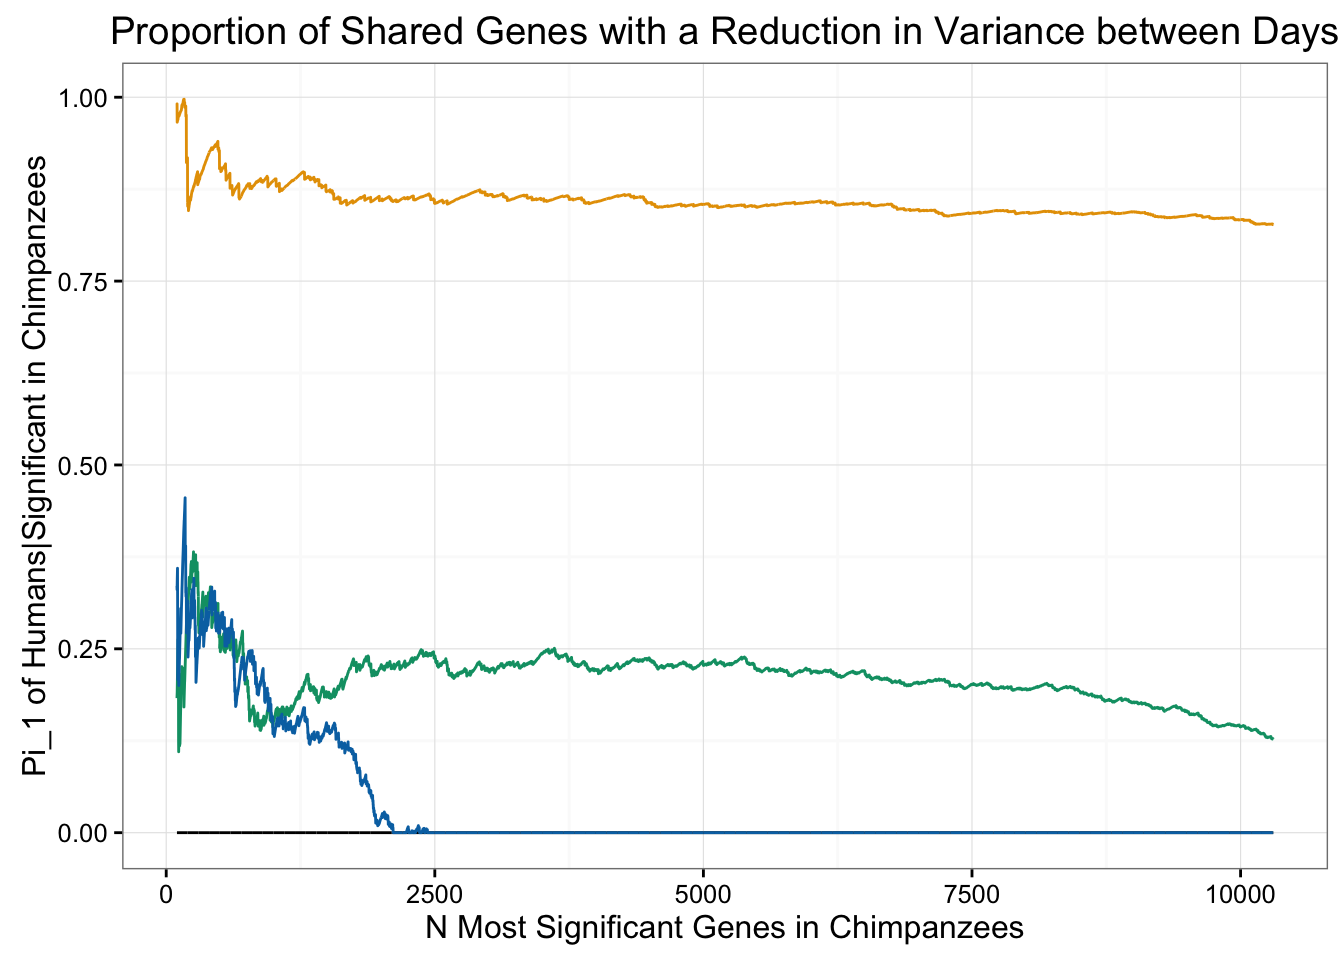
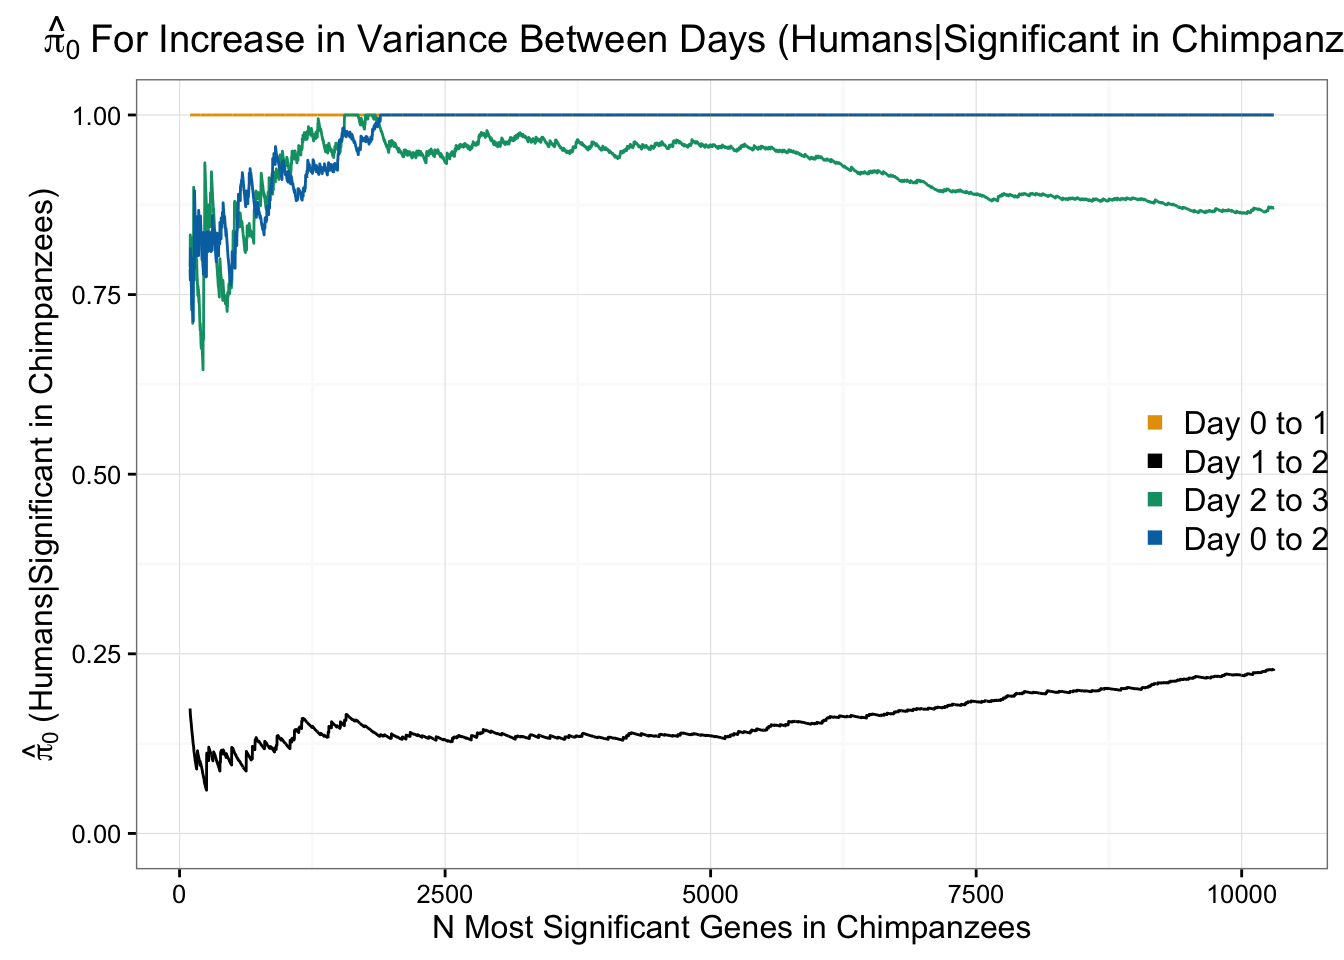
Analysis of variance plots update pi0

diff --git a/analysis/Temporal_changes_variation.html b/analysis/Temporal_changes_variation.html
@@ -2088,34 +2088,54 @@ qqplot_inc_top_all_day12 &lt;- as.data.frame(qqplot_inc_top_all_day12)
 qqplot_inc_top_all_day23 &lt;- as.data.frame(qqplot_inc_top_all_day23)
 qqplot_inc_top_all_day02 &lt;- as.data.frame(qqplot_inc_top_all_day02)
 
+# Plots of pi_0
 
+qqplot_red_top_all_day01_pi0 &lt;- abs(1- qqplot_red_top_all_day01)
+qqplot_red_top_all_day12_pi0 &lt;- abs(1- qqplot_red_top_all_day12)
+qqplot_red_top_all_day23_pi0 &lt;- abs(1- qqplot_red_top_all_day23)
+qqplot_red_top_all_day02_pi0 &lt;- abs(1- qqplot_red_top_all_day02)
+qqplot_inc_top_all_day01_pi0 &lt;- abs(1- qqplot_inc_top_all_day01)
+qqplot_inc_top_all_day12_pi0 &lt;- abs(1- qqplot_inc_top_all_day12)
+qqplot_inc_top_all_day23_pi0 &lt;- abs(1- qqplot_inc_top_all_day23)
+qqplot_inc_top_all_day02_pi0 &lt;- abs(1- qqplot_inc_top_all_day02)
 
-# Plots of pi_1
-dev.off()</code></pre>
-<pre><code>null device 
-          1 </code></pre>
-<pre class="r"><code># Plot reduction in variation
-ggplot(qqplot_red_top_all_day01, aes(x = qqplot_red_top_all_day01[,1], y = qqplot_red_top_all_day01[,2])) + geom_line(colour=&quot;#E69F00&quot;) + theme_bw() + geom_line(aes(x = qqplot_red_top_all_day12[,1], y = qqplot_red_top_all_day12[,2]), colour = &quot;#000000&quot;) + geom_line(aes(x = qqplot_red_top_all_day23[,1], y = qqplot_red_top_all_day23[,2]), colour =  &quot;#009E73&quot;) + geom_line(aes(x = qqplot_red_top_all_day02[,1], y = qqplot_red_top_all_day02[,2]), colour =  &quot;#0072B2&quot;) + ylim(0,1) + ggtitle(&quot;Proportion of Shared Genes with a Reduction in Variance between Days&quot;) + xlab(&quot;N Most Significant Genes in Humans&quot;) + ylab(&quot;Pi_1 of Chimpanzees|Significant in Humans&quot;) 
+# Plot reduction in variation
+ggplot(qqplot_red_top_all_day01_pi0, aes(x = qqplot_red_top_all_day01_pi0[,1], y = qqplot_red_top_all_day01_pi0[,2])) + geom_line(colour=&quot;#E69F00&quot;) + theme_bw() + geom_line(aes(x = qqplot_red_top_all_day12_pi0[,1], y = qqplot_red_top_all_day12_pi0[,2]), colour = &quot;#000000&quot;) + geom_line(aes(x = qqplot_red_top_all_day23_pi0[,1], y = qqplot_red_top_all_day23_pi0[,2]), colour =  &quot;#009E73&quot;) + geom_line(aes(x = qqplot_red_top_all_day02_pi0[,1], y = qqplot_red_top_all_day02_pi0[,2]), colour =  &quot;#0072B2&quot;) + ylim(0,1) + ggtitle(expression( italic(hat(pi)[0]) ~ &quot;For Reduction in Variance Between Days (Chimpanzees|Significant in Humans)&quot; )) + xlab(&quot;N Most Significant Genes in Humans&quot;) + ylab(expression( italic(hat(pi)[0]) ~ &quot;(Chimpanzees|Significant in Humans)&quot;)) 
 
-par(fig = c(0, 1, 0, 1), oma = c(0, 0, 0, 0), mar = c(0, 0, 0, 0), new = TRUE)</code></pre>
-<pre><code>Warning in par(fig = c(0, 1, 0, 1), oma = c(0, 0, 0, 0), mar = c(0, 0, 0, :
-calling par(new=TRUE) with no plot</code></pre>
-<pre class="r"><code>plot(0, 0, type = &quot;n&quot;, bty = &quot;n&quot;, xaxt = &quot;n&quot;, yaxt = &quot;n&quot;)
-legend(&quot;right&quot;, c(&quot;Day 0 to 1&quot;, &quot;Day 1 to 2&quot;, &quot;Day 2 to 3&quot;, &quot;Day 0 to 2&quot;), xpd = TRUE, horiz = FALSE, inset = c(0, 
-    0), bty = &quot;n&quot;, pch = c(15, 15, 15, 15), col = c(&quot;#E69F00&quot;, &quot;#000000&quot;,  &quot;#009E73&quot;,&quot;#0072B2&quot; ), cex = 1)
+par(fig = c(0, 1, 0, 1), oma = c(0, 0, 0, 0), mar = c(0, 0, 0, 0), new = TRUE)
+plot(0, 0, type = &quot;n&quot;, bty = &quot;n&quot;, xaxt = &quot;n&quot;, yaxt = &quot;n&quot;)
+legend(&quot;right&quot;, c(&quot;Day 0 to 1&quot;, &quot;Day 1 to 2&quot;, &quot;Day 2 to 3&quot;, &quot;Day 0 to 2&quot;), xpd = TRUE, horiz = FALSE, inset = c(0, 0), bty = &quot;n&quot;, pch = c(15, 15, 15, 15), col = c(&quot;#E69F00&quot;, &quot;#000000&quot;,  &quot;#009E73&quot;,&quot;#0072B2&quot; ), cex = 1)</code></pre>
+<p><img src="figure/Temporal_changes_variation.Rmd/unnamed-chunk-10-17.png" width="672" style="display: block; margin: auto;" /></p>
+<pre class="r"><code># Plot of Increase in Variation
 
-ggplot(qqplot_red_top_all_day01, aes(x = qqplot_red_top_all_day01[,1], y = qqplot_red_top_all_day01[,2])) + geom_line(colour=&quot;#E69F00&quot;) + theme_bw() + geom_line(aes(x = qqplot_red_top_all_day12[,1], y = qqplot_red_top_all_day12[,2]), colour = &quot;#000000&quot;) + geom_line(aes(x = qqplot_red_top_all_day23[,1], y = qqplot_red_top_all_day23[,2]), colour =  &quot;#009E73&quot;) + geom_line(aes(x = qqplot_red_top_all_day02[,1], y = qqplot_red_top_all_day02[,2]), colour =  &quot;#0072B2&quot;) + ylim(0,1) + ggtitle(&quot;Proportion of Shared Genes with a Reduction in Variance between Days&quot;) + xlab(&quot;N Most Significant Genes in Humans&quot;) + ylab(&quot;Pi_1 of Chimpanzees|Significant in Humans&quot;) 
+ggplot(qqplot_inc_top_all_day01_pi0, aes(x = qqplot_inc_top_all_day01_pi0[,1], y = qqplot_inc_top_all_day01_pi0[,2])) + geom_line(colour=&quot;#E69F00&quot;) + theme_bw() + geom_line(aes(x = qqplot_inc_top_all_day12_pi0[,1], y = qqplot_inc_top_all_day12_pi0[,2]), colour = &quot;#000000&quot;) + geom_line(aes(x = qqplot_inc_top_all_day23_pi0[,1], y = qqplot_inc_top_all_day23_pi0[,2]), colour =  &quot;#009E73&quot;) + geom_line(aes(x = qqplot_inc_top_all_day02_pi0[,1], y = qqplot_inc_top_all_day02_pi0[,2]), colour =  &quot;#0072B2&quot;) + ylim(0,1) + ggtitle(expression( italic(hat(pi)[0]) ~ &quot;For Increase in Variance Between Days (Chimpanzees|Significant in Humans)&quot; )) + xlab(&quot;N Most Significant Genes in Humans&quot;) + ylab(expression( italic(hat(pi)[0]) ~ &quot;(Chimpanzees|Significant in Humans)&quot;)) 
 
+par(fig = c(0, 1, 0, 1), oma = c(0, 0, 0, 0), mar = c(0, 0, 0, 0), new = TRUE)
+plot(0, 0, type = &quot;n&quot;, bty = &quot;n&quot;, xaxt = &quot;n&quot;, yaxt = &quot;n&quot;)
+legend(&quot;right&quot;, c(&quot;Day 0 to 1&quot;, &quot;Day 1 to 2&quot;, &quot;Day 2 to 3&quot;, &quot;Day 0 to 2&quot;), xpd = TRUE, horiz = FALSE, inset = c(0, 0), bty = &quot;n&quot;, pch = c(15, 15, 15, 15), col = c(&quot;#E69F00&quot;, &quot;#000000&quot;,  &quot;#009E73&quot;,&quot;#0072B2&quot; ), cex = 1)</code></pre>
+<p><img src="figure/Temporal_changes_variation.Rmd/unnamed-chunk-10-18.png" width="672" style="display: block; margin: auto;" /></p>
+<pre class="r"><code># Plots of pi_1
 
-# Plot inc in variation
-ggplot(qqplot_inc_top_all_day01, aes(x = qqplot_inc_top_all_day01[,1], y = qqplot_inc_top_all_day01[,2])) + geom_line(colour=&quot;#E69F00&quot;) + theme_bw() + geom_line(aes(x = qqplot_inc_top_all_day12[,1], y = qqplot_inc_top_all_day12[,2]), colour = &quot;#000000&quot;) + geom_line(aes(x = qqplot_inc_top_all_day23[,1], y = qqplot_inc_top_all_day23[,2]), colour =  &quot;#009E73&quot;) + geom_line(aes(x = qqplot_inc_top_all_day02[,1], y = qqplot_inc_top_all_day02[,2]), colour =  &quot;#0072B2&quot;) + ylim(0,1) + ggtitle(&quot;Proportion of Shared Genes with an Increase in Variance between Days&quot;) + xlab(&quot;N Most Significant Genes in Humans&quot;) + ylab(&quot;Pi_1 of Chimpanzees|Significant in Humans&quot;) 
+#dev.off()
+# Plot reduction in variation
+ggplot(qqplot_red_top_all_day01, aes(x = qqplot_red_top_all_day01[,1], y = qqplot_red_top_all_day01[,2])) + geom_line(colour=&quot;#E69F00&quot;) + theme_bw() + geom_line(aes(x = qqplot_red_top_all_day12[,1], y = qqplot_red_top_all_day12[,2]), colour = &quot;#000000&quot;) + geom_line(aes(x = qqplot_red_top_all_day23[,1], y = qqplot_red_top_all_day23[,2]), colour =  &quot;#009E73&quot;) + geom_line(aes(x = qqplot_red_top_all_day02[,1], y = qqplot_red_top_all_day02[,2]), colour =  &quot;#0072B2&quot;) + ylim(0,1) + ggtitle(&quot;Proportion of Shared Genes with a Reduction in Variance between Days&quot;) + xlab(&quot;N Most Significant Genes in Humans&quot;) + ylab(expression( italic(hat(pi)[1]) ~ &quot;(Chimpanzees|Significant in Humans)&quot;)) 
 
 par(fig = c(0, 1, 0, 1), oma = c(0, 0, 0, 0), mar = c(0, 0, 0, 0), new = TRUE)
 plot(0, 0, type = &quot;n&quot;, bty = &quot;n&quot;, xaxt = &quot;n&quot;, yaxt = &quot;n&quot;)
 legend(&quot;right&quot;, c(&quot;Day 0 to 1&quot;, &quot;Day 1 to 2&quot;, &quot;Day 2 to 3&quot;, &quot;Day 0 to 2&quot;), xpd = TRUE, horiz = FALSE, inset = c(0, 
-    0), bty = &quot;n&quot;, pch = c(15, 15, 15, 15), col = c(&quot;#E69F00&quot;, &quot;#000000&quot;,  &quot;#009E73&quot;,&quot;#0072B2&quot; ), cex = 1)
+    0), bty = &quot;n&quot;, pch = c(15, 15, 15, 15), col = c(&quot;#E69F00&quot;, &quot;#000000&quot;,  &quot;#009E73&quot;,&quot;#0072B2&quot; ), cex = 1)</code></pre>
+<p><img src="figure/Temporal_changes_variation.Rmd/unnamed-chunk-10-19.png" width="672" style="display: block; margin: auto;" /></p>
+<pre class="r"><code># Plot inc in variation
+ggplot(qqplot_inc_top_all_day01, aes(x = qqplot_inc_top_all_day01[,1], y = qqplot_inc_top_all_day01[,2])) + geom_line(colour=&quot;#E69F00&quot;) + theme_bw() + geom_line(aes(x = qqplot_inc_top_all_day12[,1], y = qqplot_inc_top_all_day12[,2]), colour = &quot;#000000&quot;) + geom_line(aes(x = qqplot_inc_top_all_day23[,1], y = qqplot_inc_top_all_day23[,2]), colour =  &quot;#009E73&quot;) + geom_line(aes(x = qqplot_inc_top_all_day02[,1], y = qqplot_inc_top_all_day02[,2]), colour =  &quot;#0072B2&quot;) + ylim(0,1) + ggtitle(&quot;Proportion of Shared Genes with an Increase in Variance between Days&quot;) + xlab(&quot;N Most Significant Genes in Humans&quot;) + ylab(expression( italic(hat(pi)[1]) ~ &quot;(Chimpanzees|Significant in Humans)&quot;)) 
+ 
 
-ggplot(qqplot_inc_top_all_day01, aes(x = qqplot_inc_top_all_day01[,1], y = qqplot_inc_top_all_day01[,2])) + geom_line(colour=&quot;#E69F00&quot;) + theme_bw() + geom_line(aes(x = qqplot_inc_top_all_day12[,1], y = qqplot_inc_top_all_day12[,2]), colour = &quot;#000000&quot;) + geom_line(aes(x = qqplot_inc_top_all_day23[,1], y = qqplot_inc_top_all_day23[,2]), colour =  &quot;#009E73&quot;) + geom_line(aes(x = qqplot_inc_top_all_day02[,1], y = qqplot_inc_top_all_day02[,2]), colour =  &quot;#0072B2&quot;) + ylim(0,1) + ggtitle(&quot;Proportion of Shared Genes with an Increase in Variance between Days&quot;) + xlab(&quot;N Most Significant Genes in Humans&quot;) + ylab(&quot;Pi_1 of Chimpanzees|Significant in Humans&quot;) </code></pre>
+par(fig = c(0, 1, 0, 1), oma = c(0, 0, 0, 0), mar = c(0, 0, 0, 0), new = TRUE)
+plot(0, 0, type = &quot;n&quot;, bty = &quot;n&quot;, xaxt = &quot;n&quot;, yaxt = &quot;n&quot;)
+legend(&quot;right&quot;, c(&quot;Day 0 to 1&quot;, &quot;Day 1 to 2&quot;, &quot;Day 2 to 3&quot;, &quot;Day 0 to 2&quot;), xpd = TRUE, horiz = FALSE, inset = c(0, 
+    0), bty = &quot;n&quot;, pch = c(15, 15, 15, 15), col = c(&quot;#E69F00&quot;, &quot;#000000&quot;,  &quot;#009E73&quot;,&quot;#0072B2&quot; ), cex = 1)</code></pre>
+<p><img src="figure/Temporal_changes_variation.Rmd/unnamed-chunk-10-20.png" width="672" style="display: block; margin: auto;" /></p>
+<pre class="r"><code>ggplot(qqplot_inc_top_all_day01, aes(x = qqplot_inc_top_all_day01[,1], y = qqplot_inc_top_all_day01[,2])) + geom_line(colour=&quot;#E69F00&quot;) + theme_bw() + geom_line(aes(x = qqplot_inc_top_all_day12[,1], y = qqplot_inc_top_all_day12[,2]), colour = &quot;#000000&quot;) + geom_line(aes(x = qqplot_inc_top_all_day23[,1], y = qqplot_inc_top_all_day23[,2]), colour =  &quot;#009E73&quot;) + geom_line(aes(x = qqplot_inc_top_all_day02[,1], y = qqplot_inc_top_all_day02[,2]), colour =  &quot;#0072B2&quot;) + ylim(0,1) + ggtitle(&quot;Proportion of Shared Genes with an Increase in Variance between Days&quot;) + xlab(&quot;N Most Significant Genes in Humans&quot;) + ylab(expression( italic(hat(pi)[1]) ~ &quot;(Chimpanzees|Significant in Humans)&quot;)) </code></pre>
+<p><img src="figure/Temporal_changes_variation.Rmd/unnamed-chunk-10-21.png" width="672" style="display: block; margin: auto;" /></p>
 </div>
 <div id="enrichments-in-humans" class="section level3">
 <h3>Enrichments in humans</h3>
@@ -3161,21 +3181,38 @@ qqplot_inc_top_all_day12 &lt;- as.data.frame(qqplot_inc_top_all_day12)
 qqplot_inc_top_all_day23 &lt;- as.data.frame(qqplot_inc_top_all_day23)
 qqplot_inc_top_all_day02 &lt;- as.data.frame(qqplot_inc_top_all_day02)
 
+# Plots of pi_0
 
-# Plot reduction in variation
-ggplot(qqplot_red_top_all_day01, aes(x = qqplot_red_top_all_day01[,1], y = qqplot_red_top_all_day01[,2])) + geom_line(colour=&quot;#E69F00&quot;) + theme_bw() + geom_line(aes(x = qqplot_red_top_all_day12[,1], y = qqplot_red_top_all_day12[,2]), colour = &quot;#000000&quot;) + geom_line(aes(x = qqplot_red_top_all_day23[,1], y = qqplot_red_top_all_day23[,2]), colour =  &quot;#009E73&quot;) + geom_line(aes(x = qqplot_red_top_all_day02[,1], y = qqplot_red_top_all_day02[,2]), colour =  &quot;#0072B2&quot;) + ggtitle(&quot;Proportion of Shared Genes with a Reduction in Variance between Days&quot;) + xlab(&quot;N Most Significant Genes in Chimpanzees&quot;) + ylab(&quot;Pi_1 of Humans|Significant in Chimpanzees&quot;) 
+qqplot_red_top_all_day01_pi0 &lt;- abs(1- qqplot_red_top_all_day01)
+qqplot_red_top_all_day12_pi0 &lt;- abs(1- qqplot_red_top_all_day12)
+qqplot_red_top_all_day23_pi0 &lt;- abs(1- qqplot_red_top_all_day23)
+qqplot_red_top_all_day02_pi0 &lt;- abs(1- qqplot_red_top_all_day02)
+qqplot_inc_top_all_day01_pi0 &lt;- abs(1- qqplot_inc_top_all_day01)
+qqplot_inc_top_all_day12_pi0 &lt;- abs(1- qqplot_inc_top_all_day12)
+qqplot_inc_top_all_day23_pi0 &lt;- abs(1- qqplot_inc_top_all_day23)
+qqplot_inc_top_all_day02_pi0 &lt;- abs(1- qqplot_inc_top_all_day02)
+
+# Plots of pi_0
+
+ggplot(qqplot_red_top_all_day01_pi0, aes(x = qqplot_red_top_all_day01_pi0[,1], y = qqplot_red_top_all_day01_pi0[,2])) + geom_line(colour=&quot;#E69F00&quot;) + theme_bw() + geom_line(aes(x = qqplot_red_top_all_day12_pi0[,1], y = qqplot_red_top_all_day12_pi0[,2]), colour = &quot;#000000&quot;) + geom_line(aes(x = qqplot_red_top_all_day23_pi0[,1], y = qqplot_red_top_all_day23_pi0[,2]), colour =  &quot;#009E73&quot;) + geom_line(aes(x = qqplot_red_top_all_day02_pi0[,1], y = qqplot_red_top_all_day02_pi0[,2]), colour =  &quot;#0072B2&quot;) + ylim(0,1) + ggtitle(expression( italic(hat(pi)[0]) ~ &quot;For Reduction in Variance Between Days (Humans|Significant in Chimpanzees)&quot; )) + xlab(&quot;N Most Significant Genes in Chimpanzees&quot;) + ylab(expression( italic(hat(pi)[0]) ~ &quot;(Humans|Significant in Chimpanzees)&quot;)) 
 
 par(fig = c(0, 1, 0, 1), oma = c(0, 0, 0, 0), mar = c(0, 0, 0, 0), new = TRUE)
 plot(0, 0, type = &quot;n&quot;, bty = &quot;n&quot;, xaxt = &quot;n&quot;, yaxt = &quot;n&quot;)
 legend(&quot;right&quot;, c(&quot;Day 0 to 1&quot;, &quot;Day 1 to 2&quot;, &quot;Day 2 to 3&quot;, &quot;Day 0 to 2&quot;), xpd = TRUE, horiz = FALSE, inset = c(0, 
     0), bty = &quot;n&quot;, pch = c(15, 15, 15, 15), col = c(&quot;#E69F00&quot;, &quot;#000000&quot;,  &quot;#009E73&quot;,&quot;#0072B2&quot; ), cex = 1)</code></pre>
 <p><img src="figure/Temporal_changes_variation.Rmd/unnamed-chunk-13-17.png" width="672" style="display: block; margin: auto;" /></p>
-<pre class="r"><code>ggplot(qqplot_red_top_all_day01, aes(x = qqplot_red_top_all_day01[,1], y = qqplot_red_top_all_day01[,2])) + geom_line(colour=&quot;#E69F00&quot;) + theme_bw() + geom_line(aes(x = qqplot_red_top_all_day12[,1], y = qqplot_red_top_all_day12[,2]), colour = &quot;#000000&quot;) + geom_line(aes(x = qqplot_red_top_all_day23[,1], y = qqplot_red_top_all_day23[,2]), colour =  &quot;#009E73&quot;) + geom_line(aes(x = qqplot_red_top_all_day02[,1], y = qqplot_red_top_all_day02[,2]), colour =  &quot;#0072B2&quot;) + ggtitle(&quot;Proportion of Shared Genes with a Reduction in Variance between Days&quot;) + xlab(&quot;N Most Significant Genes in Chimpanzees&quot;) + ylab(&quot;Pi_1 of Humans|Significant in Chimpanzees&quot;) </code></pre>
-<p><img src="figure/Temporal_changes_variation.Rmd/unnamed-chunk-13-18.png" width="672" style="display: block; margin: auto;" /></p>
-<pre class="r"><code>#dev.off()
+<pre class="r"><code>ggplot(qqplot_inc_top_all_day01_pi0, aes(x = qqplot_inc_top_all_day01_pi0[,1], y = qqplot_inc_top_all_day01_pi0[,2])) + geom_line(colour=&quot;#E69F00&quot;) + theme_bw() + geom_line(aes(x = qqplot_inc_top_all_day12_pi0[,1], y = qqplot_inc_top_all_day12_pi0[,2]), colour = &quot;#000000&quot;) + geom_line(aes(x = qqplot_inc_top_all_day23_pi0[,1], y = qqplot_inc_top_all_day23_pi0[,2]), colour =  &quot;#009E73&quot;) + geom_line(aes(x = qqplot_inc_top_all_day02_pi0[,1], y = qqplot_inc_top_all_day02_pi0[,2]), colour =  &quot;#0072B2&quot;) + ylim(0,1) + ggtitle(expression( italic(hat(pi)[0]) ~ &quot;For Increase in Variance Between Days (Humans|Significant in Chimpanzees)&quot; )) + xlab(&quot;N Most Significant Genes in Chimpanzees&quot;) + ylab(expression( italic(hat(pi)[0]) ~ &quot;(Humans|Significant in Chimpanzees)&quot;)) 
 
-# Plot inc in variation
-ggplot(qqplot_inc_top_all_day01, aes(x = qqplot_inc_top_all_day01[,1], y = qqplot_inc_top_all_day01[,2])) + geom_line(colour=&quot;#E69F00&quot;) + theme_bw() + geom_line(aes(x = qqplot_inc_top_all_day12[,1], y = qqplot_inc_top_all_day12[,2]), colour = &quot;#000000&quot;) + geom_line(aes(x = qqplot_inc_top_all_day23[,1], y = qqplot_inc_top_all_day23[,2]), colour =  &quot;#009E73&quot;) + geom_line(aes(x = qqplot_inc_top_all_day02[,1], y = qqplot_inc_top_all_day02[,2]), colour =  &quot;#0072B2&quot;) + ggtitle(&quot;Proportion of Shared Genes with an Increase in Variance between Days&quot;) + xlab(&quot;N Most Significant Genes in Chimpanzees&quot;) + ylab(&quot;Pi_1 of Humans|Significant in Chimpanzees&quot;) 
+
+par(fig = c(0, 1, 0, 1), oma = c(0, 0, 0, 0), mar = c(0, 0, 0, 0), new = TRUE)
+plot(0, 0, type = &quot;n&quot;, bty = &quot;n&quot;, xaxt = &quot;n&quot;, yaxt = &quot;n&quot;)
+legend(&quot;right&quot;, c(&quot;Day 0 to 1&quot;, &quot;Day 1 to 2&quot;, &quot;Day 2 to 3&quot;, &quot;Day 0 to 2&quot;), xpd = TRUE, horiz = FALSE, inset = c(0, 
+    0), bty = &quot;n&quot;, pch = c(15, 15, 15, 15), col = c(&quot;#E69F00&quot;, &quot;#000000&quot;,  &quot;#009E73&quot;,&quot;#0072B2&quot; ), cex = 1)</code></pre>
+<p><img src="figure/Temporal_changes_variation.Rmd/unnamed-chunk-13-18.png" width="672" style="display: block; margin: auto;" /></p>
+<pre class="r"><code># Plots of pi_1
+
+# Plot reduction in variation
+ggplot(qqplot_red_top_all_day01, aes(x = qqplot_red_top_all_day01[,1], y = qqplot_red_top_all_day01[,2])) + geom_line(colour=&quot;#E69F00&quot;) + theme_bw() + geom_line(aes(x = qqplot_red_top_all_day12[,1], y = qqplot_red_top_all_day12[,2]), colour = &quot;#000000&quot;) + geom_line(aes(x = qqplot_red_top_all_day23[,1], y = qqplot_red_top_all_day23[,2]), colour =  &quot;#009E73&quot;) + geom_line(aes(x = qqplot_red_top_all_day02[,1], y = qqplot_red_top_all_day02[,2]), colour =  &quot;#0072B2&quot;) + ggtitle(expression( italic(hat(pi)[1]) ~ &quot;For Reduction in Variance Between Days (Humans|Significant in Chimpanzees)&quot; )) + xlab(&quot;N Most Significant Genes in Chimpanzees&quot;) + ylab(expression( italic(hat(pi)[1]) ~ &quot;(Humans|Significant in Chimpanzees)&quot;)) 
 
 par(fig = c(0, 1, 0, 1), oma = c(0, 0, 0, 0), mar = c(0, 0, 0, 0), new = TRUE)
 plot(0, 0, type = &quot;n&quot;, bty = &quot;n&quot;, xaxt = &quot;n&quot;, yaxt = &quot;n&quot;)
@@ -3183,7 +3220,12 @@ legend(&quot;right&quot;, c(&quot;Day 0 to 1&quot;, &quot;Day 1 to 2&quot;, &quo
     0), bty = &quot;n&quot;, pch = c(15, 15, 15, 15), col = c(&quot;#E69F00&quot;, &quot;#000000&quot;,  &quot;#009E73&quot;,&quot;#0072B2&quot; ), cex = 1)</code></pre>
 <p><img src="figure/Temporal_changes_variation.Rmd/unnamed-chunk-13-19.png" width="672" style="display: block; margin: auto;" /></p>
 <pre class="r"><code># Plot inc in variation
-ggplot(qqplot_inc_top_all_day01, aes(x = qqplot_inc_top_all_day01[,1], y = qqplot_inc_top_all_day01[,2])) + geom_line(colour=&quot;#E69F00&quot;) + theme_bw() + geom_line(aes(x = qqplot_inc_top_all_day12[,1], y = qqplot_inc_top_all_day12[,2]), colour = &quot;#000000&quot;) + geom_line(aes(x = qqplot_inc_top_all_day23[,1], y = qqplot_inc_top_all_day23[,2]), colour =  &quot;#009E73&quot;) + geom_line(aes(x = qqplot_inc_top_all_day02[,1], y = qqplot_inc_top_all_day02[,2]), colour =  &quot;#0072B2&quot;) + ggtitle(&quot;Proportion of Shared Genes with an Increase in Variance between Days&quot;) + xlab(&quot;N Most Significant Genes in Chimpanzees&quot;) + ylab(&quot;Pi_1 of Humans|Significant in Chimpanzees&quot;)</code></pre>
+ggplot(qqplot_inc_top_all_day01, aes(x = qqplot_inc_top_all_day01[,1], y = qqplot_inc_top_all_day01[,2])) + geom_line(colour=&quot;#E69F00&quot;) + theme_bw() + geom_line(aes(x = qqplot_inc_top_all_day12[,1], y = qqplot_inc_top_all_day12[,2]), colour = &quot;#000000&quot;) + geom_line(aes(x = qqplot_inc_top_all_day23[,1], y = qqplot_inc_top_all_day23[,2]), colour =  &quot;#009E73&quot;) + geom_line(aes(x = qqplot_inc_top_all_day02[,1], y = qqplot_inc_top_all_day02[,2]), colour =  &quot;#0072B2&quot;) + ggtitle(expression( italic(hat(pi)[1]) ~ &quot;For Increase in Variance Between Days (Humans|Significant in Chimpanzees)&quot; )) + xlab(&quot;N Most Significant Genes in Chimpanzees&quot;) + ylab(expression( italic(hat(pi)[1]) ~ &quot;(Humans|Significant in Chimpanzees)&quot;)) 
+
+par(fig = c(0, 1, 0, 1), oma = c(0, 0, 0, 0), mar = c(0, 0, 0, 0), new = TRUE)
+plot(0, 0, type = &quot;n&quot;, bty = &quot;n&quot;, xaxt = &quot;n&quot;, yaxt = &quot;n&quot;)
+legend(&quot;right&quot;, c(&quot;Day 0 to 1&quot;, &quot;Day 1 to 2&quot;, &quot;Day 2 to 3&quot;, &quot;Day 0 to 2&quot;), xpd = TRUE, horiz = FALSE, inset = c(0, 
+    0), bty = &quot;n&quot;, pch = c(15, 15, 15, 15), col = c(&quot;#E69F00&quot;, &quot;#000000&quot;,  &quot;#009E73&quot;,&quot;#0072B2&quot; ), cex = 1)</code></pre>
 <p><img src="figure/Temporal_changes_variation.Rmd/unnamed-chunk-13-20.png" width="672" style="display: block; margin: auto;" /></p>
 </div>
 </div>
